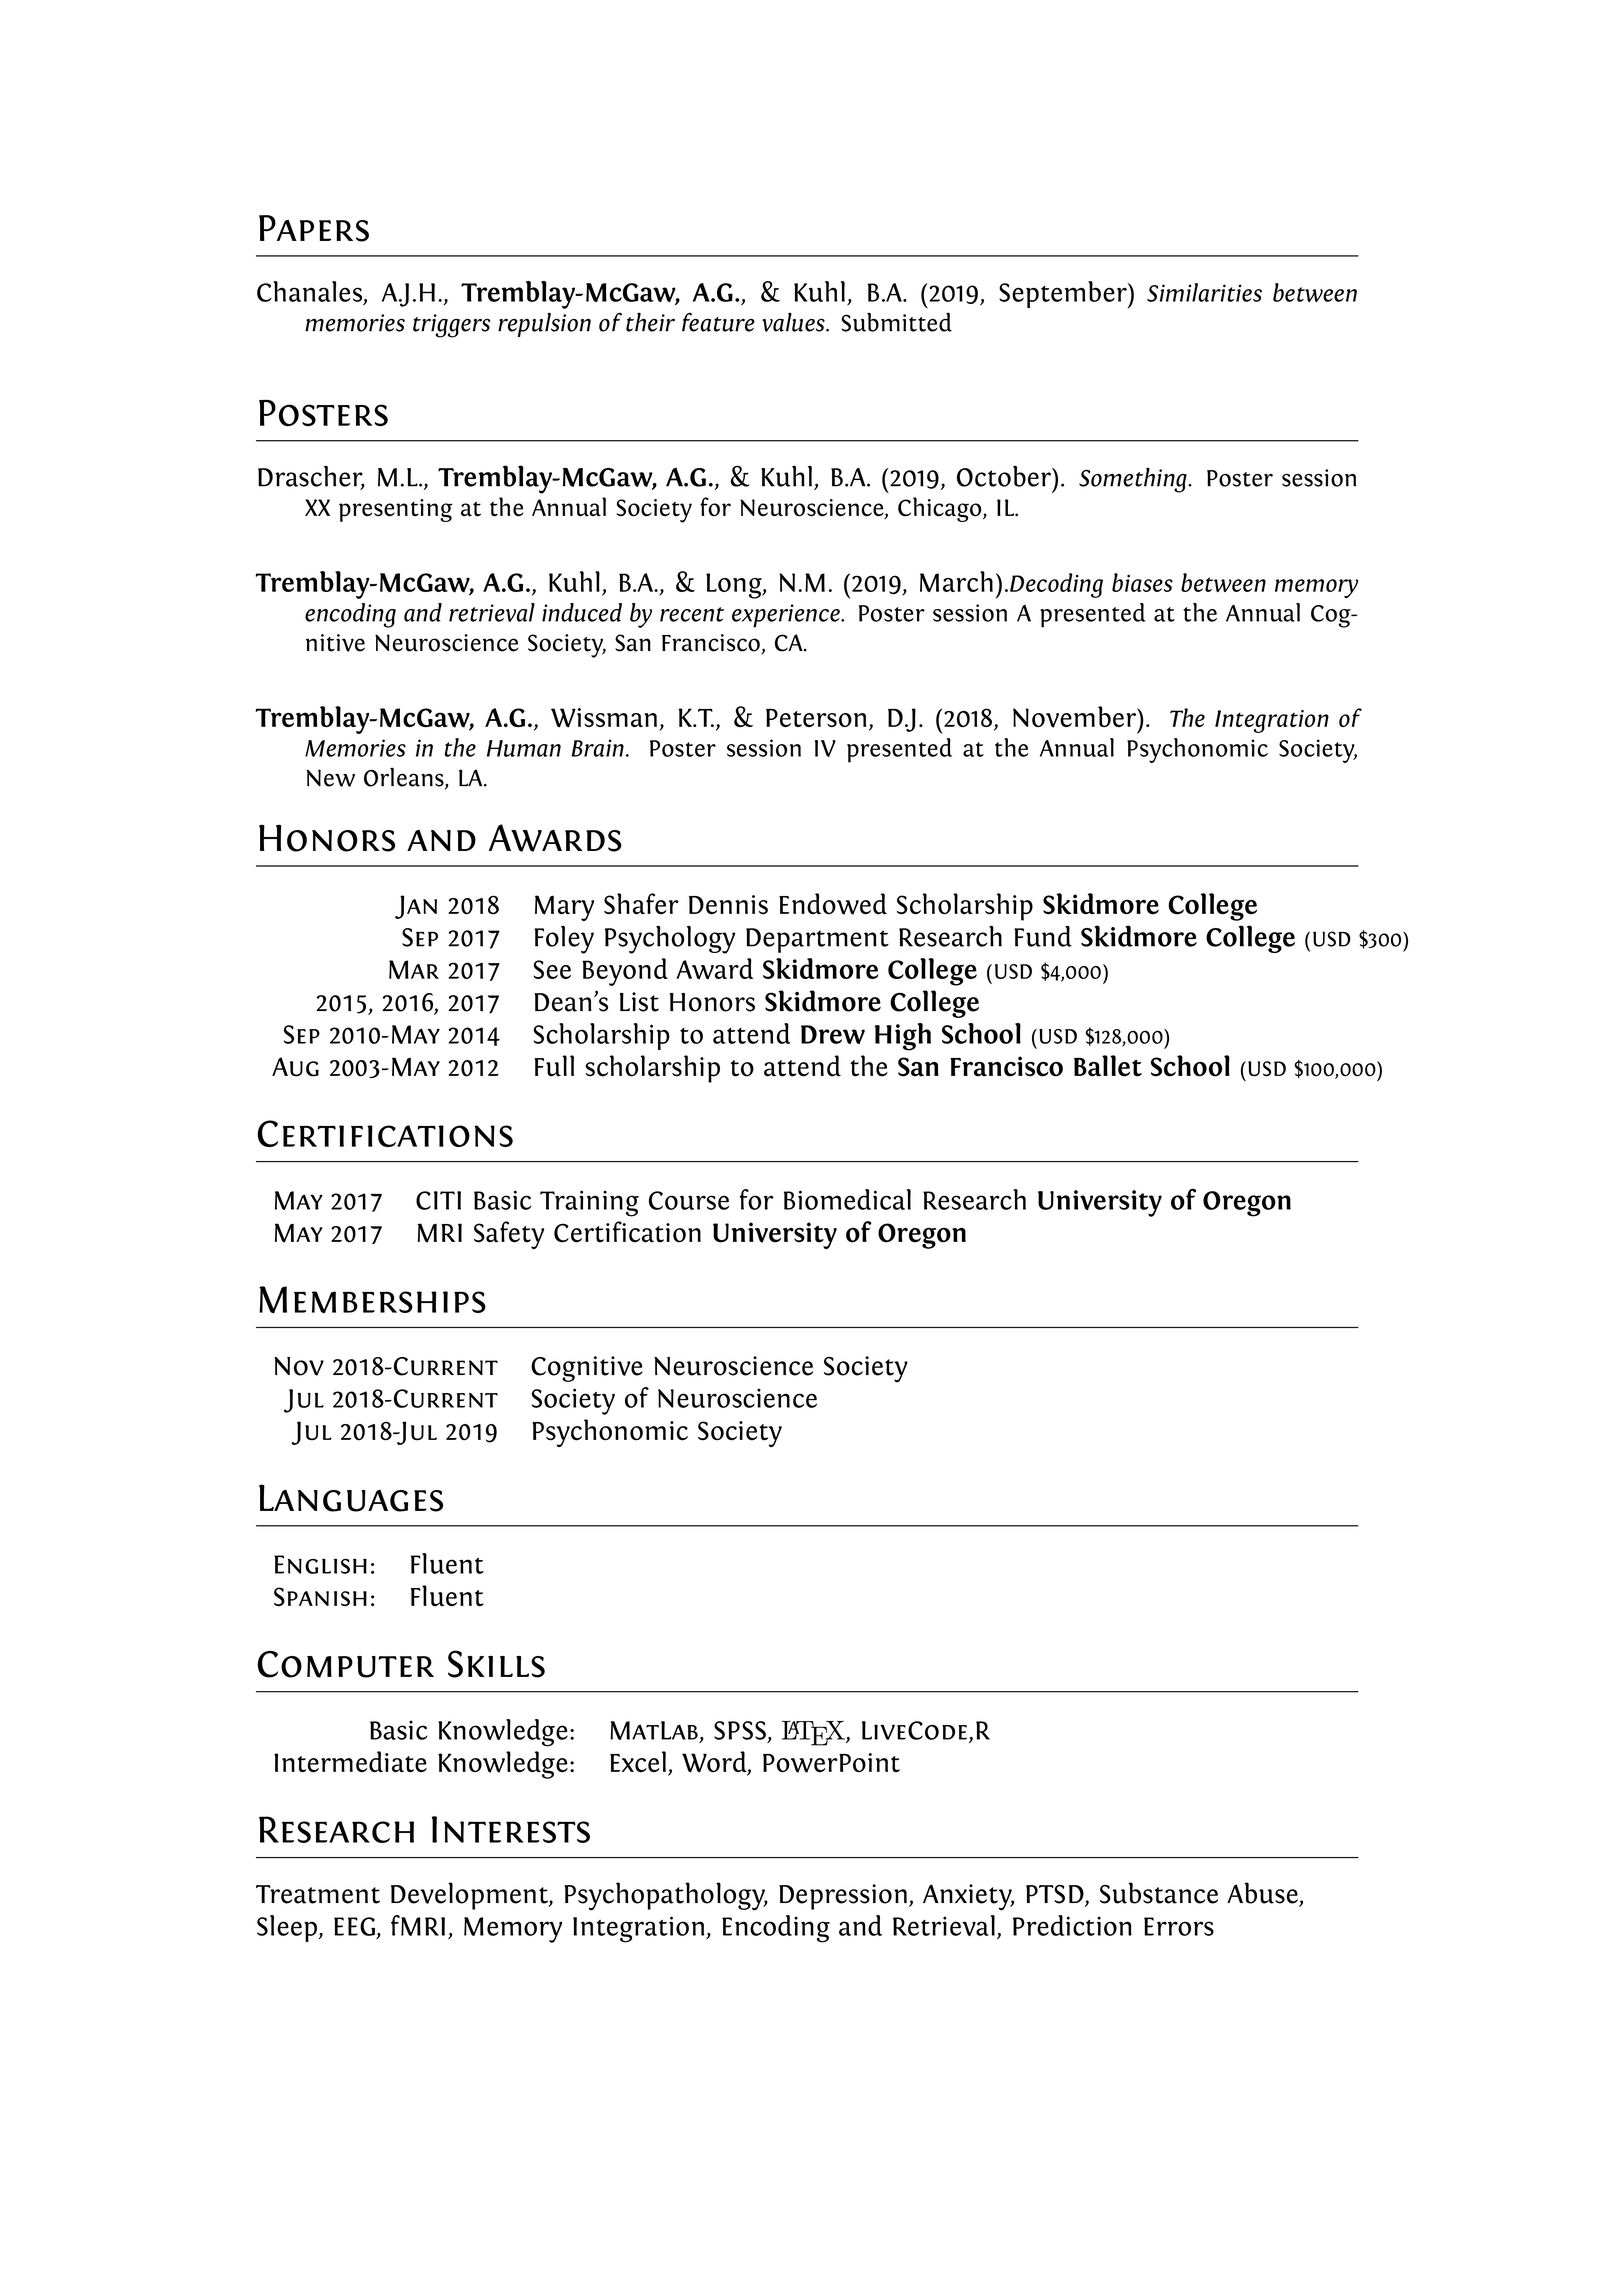
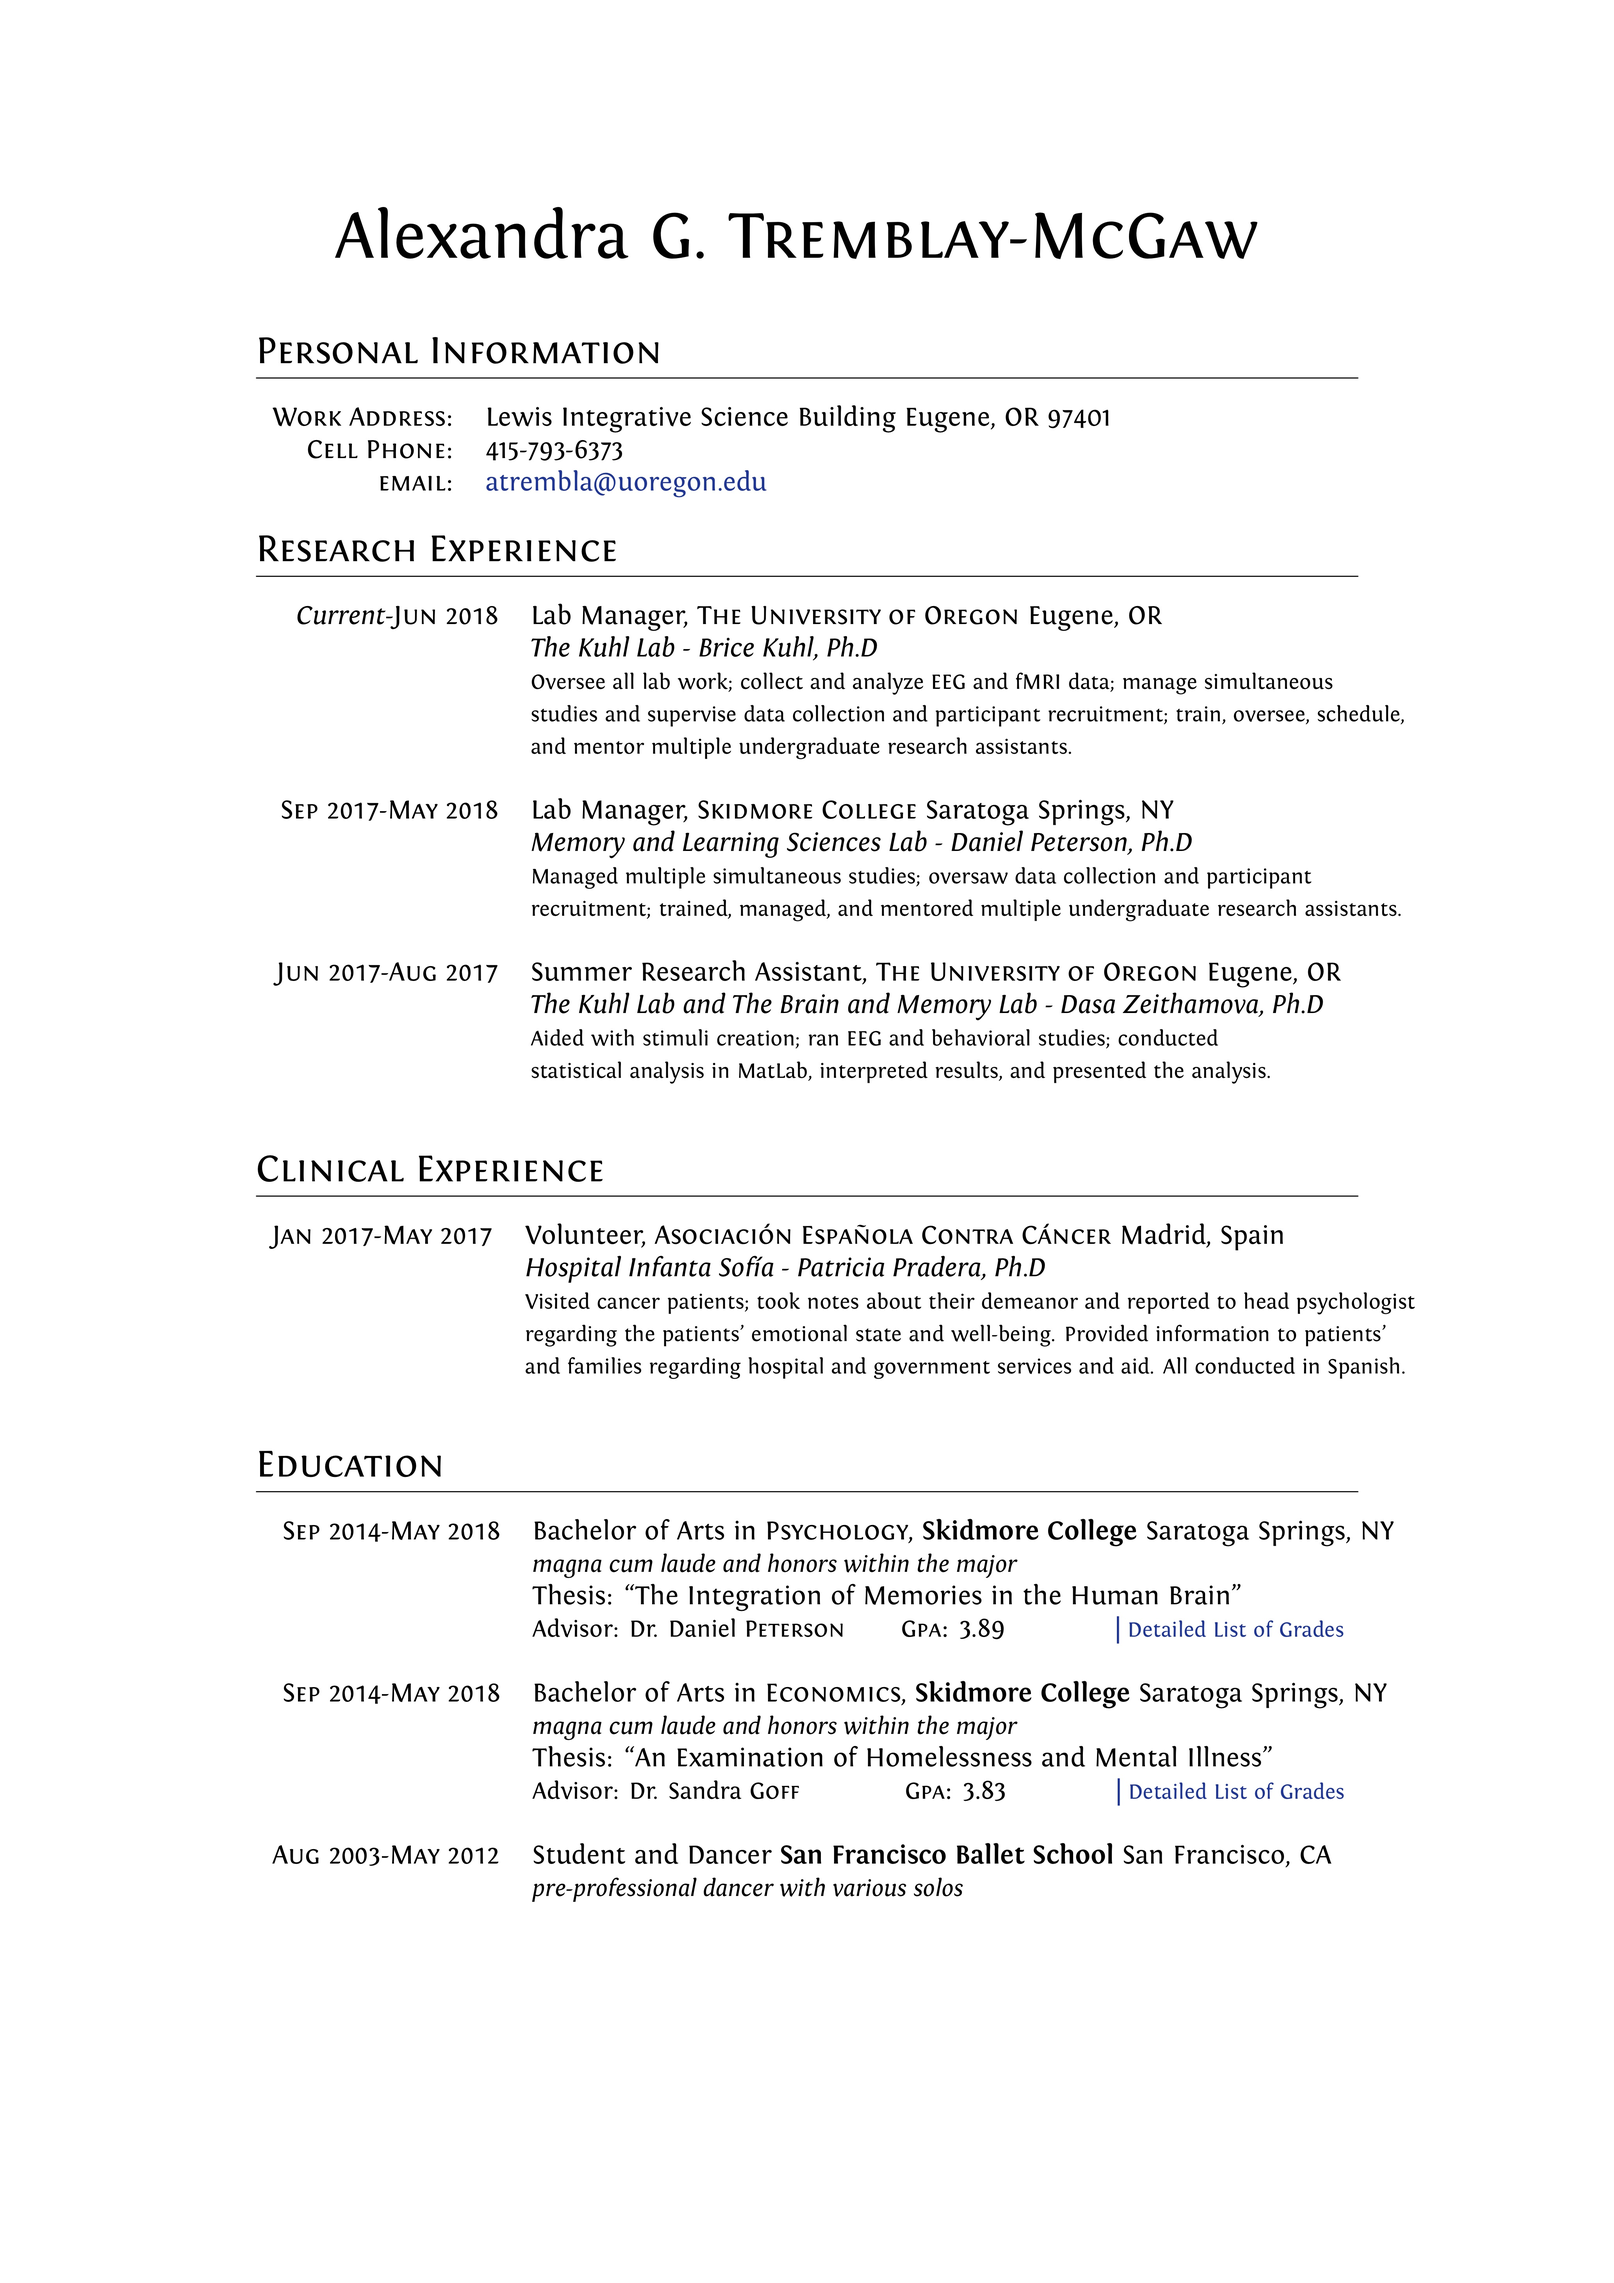
update

diff --git a/CV.html b/CV.html
@@ -307,7 +307,7 @@ $(document).ready(function () {
 <hr />
 <p>Updated August 2019<br />
 <a href="pdfs/ATM_CV.pdf">a pdf version</a></p>
-<p><img src="pdfs/ATM_CV.JPEG" /> <img src="pdfs/ATM_CV1.JPEG" /> <img src="pdfs/ATM_CV2.JPEG" /> <img src="pdfs/ATM_CV3.JPEG" /></p>
+<p><img src="pdfs/ATM_CV1.JPEG" /> <img src="pdfs/ATM_CV2.JPEG" /> <img src="pdfs/ATM_CV3.JPEG" /> <img src="pdfs/ATM_CV4.JPEG" /></p>
 <hr />
 <!-- ### Education -->
 <!--  - Sep 2014–May 2018: _B.A._, Psychology & Economics with honors, Skidmore College. Advisor: __Daniel Peterson__  -->
